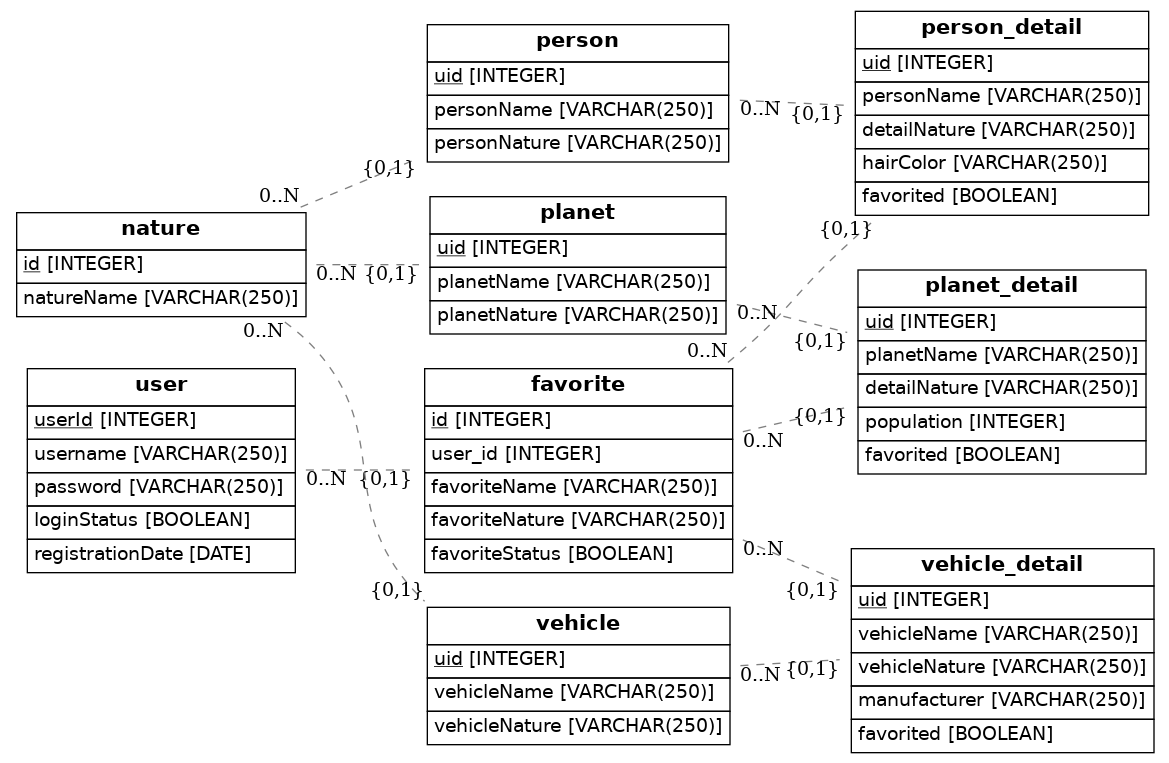
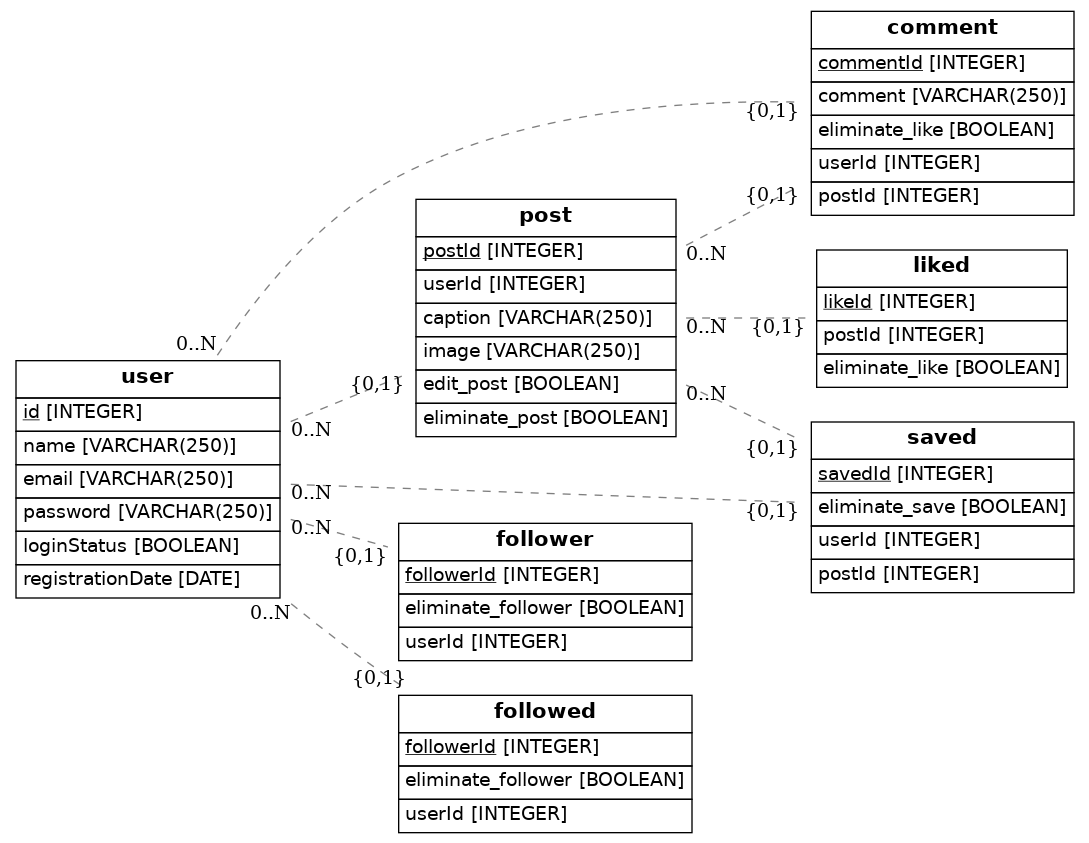
[test]

Changed region(s): [[0.0, 0.0, 0.9991, 0.9948], [0.5932, 0.0301, 0.6244, 0.0904], [0.2185, 0.2412, 0.2498, 0.2713]]

diff --git a/src/models.py b/src/models.py
@@ -12,96 +12,82 @@ class User(Base):
     __tablename__ = 'user'
     # Here we define columns for the table person
     # Notice that each column is also a normal Python instance attribute.
-    userId = Column(Integer, primary_key=True)
-    username = Column(String(250), nullable=False, unique = True)
+    id = Column(Integer, primary_key=True)
+    name = Column(String(250), nullable=False)
+    email = Column(String(250), nullable=False)
     password = Column(String(250), nullable=False)
     loginStatus = Column(Boolean, nullable=False)
     registrationDate = Column(Date, nullable=False)
-   
 
-class Favorite(Base):
-    __tablename__ = 'favorite'
-    # Here we define columns for the table address.
+class Post(Base):
+    __tablename__ = 'post'
+    # Here we define columns for the table person
     # Notice that each column is also a normal Python instance attribute.
-    id = Column(Integer, primary_key=True)
-    user_id=Column(Integer, ForeignKey('user.id'))
-    favoriteName = Column(String(250))
-    favoriteNature = Column(String(250))
-    favoriteStatus = Column(Boolean)
+    postId = Column(Integer, primary_key=True)
+    userId = Column(Integer,ForeignKey('user.id'))
+    caption = Column(String(250), nullable=False)
+    image = Column(String(250), nullable=False)
+    edit_post = Column(Boolean, nullable=False)
+    eliminate_post = Column(Boolean, nullable=False)
     user=relationship(User, back_populates="user")
 
-class Nature(Base):
-    __tablename__ = 'nature'
-    # Here we define columns for the table address.
+class Liked(Base):
+    __tablename__ = 'liked'
+    # Here we define columns for the table person
     # Notice that each column is also a normal Python instance attribute.
-    id = Column(Integer, primary_key=True)
-    natureName = Column(String(250))
+    likeId = Column(Integer, primary_key=True)
+    postId = Column(Integer, ForeignKey('post.postId') )
+    eliminate_like = Column(Boolean, nullable=False)
+    post = relationship(Post, back_populates="post")
 
-class Person(Base):
-    __tablename__ = 'person'
-    # Here we define columns for the table address.
+class Comment(Base):
+    __tablename__ = 'comment'
+    # Here we define columns for the table person
     # Notice that each column is also a normal Python instance attribute.
-    uid = Column(Integer, primary_key=True)
-    personName = Column(String(250))
-    personNature= Column(String(250), ForeignKey("nature.natureName"))
-    person = relationship(Nature,  back_populates="nature")
+    commentId = Column(Integer, primary_key=True)
+    comment = Column(String(250), nullable=False)
+    eliminate_like = Column(Boolean, nullable=False)
+    userId = Column(Integer, ForeignKey('user.id') )
+    postId = Column(Integer, ForeignKey('post.postId'))
+    post = relationship(Post, back_populates="post")
+    user = relationship(User, back_populates="user")
+
+class Saved(Base):
+    __tablename__ = 'saved'
+    # Here we define columns for the table person
+    # Notice that each column is also a normal Python instance attribute.
+    savedId = Column(Integer, primary_key=True)
+    eliminate_save = Column(Boolean, nullable=False)
+    userId = Column(Integer, ForeignKey('user.id') )
+    postId = Column(Integer, ForeignKey('post.postId'))
+    post = relationship(Post, back_populates="post")
+    user = relationship(User, back_populates="user")
+
+    
     
 
-
-class PersonDetail(Base):
-    __tablename__ = 'person_detail'
-    # Here we define columns for the table address.
+class Follower(Base):
+    __tablename__ = 'follower'
+    # Here we define columns for the table person
     # Notice that each column is also a normal Python instance attribute.
-    uid = Column(Integer, primary_key=True)
-    personName = Column(String(250))
-    detailNature = Column(String(250), ForeignKey("person.personNature") )
-    hairColor = Column(String(250))
-    favorited = Column(Boolean, ForeignKey("favorite.favoriteStatus") )
-    personDetail = relationship(Person,  back_populates="person")
-    favoriteStatus = relationship(Favorite, back_populates="favorite")
+    followerId= Column(Integer, primary_key=True)
+    eliminate_follower = Column(Boolean, nullable=False)
+    userId = Column(Integer, ForeignKey('user.id') )
+    user = relationship(User, back_populates="user")
 
 
-class Planet(Base):
-    __tablename__ = 'planet'
-    # Here we define columns for the table address.
+class Followed(Base):
+    __tablename__ = 'followed'
+    # Here we define columns for the table person
     # Notice that each column is also a normal Python instance attribute.
-    uid = Column(Integer, primary_key=True)
-    planetName = Column(String(250))
-    planetNature= Column(String(250), ForeignKey("nature.natureName"))
-    planet = relationship(Nature,  back_populates="nature")
+    followerId= Column(Integer, primary_key=True)
+    eliminate_followed = Column(Boolean, nullable=False)
+    userId = Column(Integer, ForeignKey('user.id') )
+    user = relationship(User, back_populates="user")
 
-class PlanetDetail(Base):
-    __tablename__ = 'planet_detail'
-    # Here we define columns for the table address.
-    # Notice that each column is also a normal Python instance attribute.
-    uid = Column(Integer, primary_key=True)
-    planetName = Column(String(250))
-    detailNature = Column(String(250), ForeignKey("planet.planetNature") )
-    population = Column(Integer)
-    favorited = Column(Boolean, ForeignKey("favorite.favoriteStatus") )
-    planetDetail = relationship(Planet,  back_populates="planet")
-    favoriteStatus = relationship(Favorite, back_populates="favorite")
 
-class Vehicle(Base):
-    __tablename__ = 'vehicle'
-    # Here we define columns for the table address.
-    # Notice that each column is also a normal Python instance attribute.
-    uid = Column(Integer, primary_key=True)
-    vehicleName = Column(String(250))
-    vehicleNature= Column(String(250), ForeignKey("nature.natureName"))
-    vehicle = relationship(Nature,  back_populates="nature")
+    
 
-class VehicleDetail(Base):
-    __tablename__ = 'vehicle_detail'
-    # Here we define columns for the table address.
-    # Notice that each column is also a normal Python instance attribute.
-    uid = Column(Integer, primary_key=True)
-    vehicleName = Column(String(250))
-    vehicleNature = Column(String(250), ForeignKey("vehicle.vehicleNature") )
-    manufacturer = Column(String(250))
-    favorited = Column(Boolean, ForeignKey("favorite.favoriteStatus") )
-    vehicleDetail = relationship(Vehicle,  back_populates="vehicle")
-    favoriteStatus = relationship(Favorite, back_populates="favorite")
 
 
     def to_dict(self):
